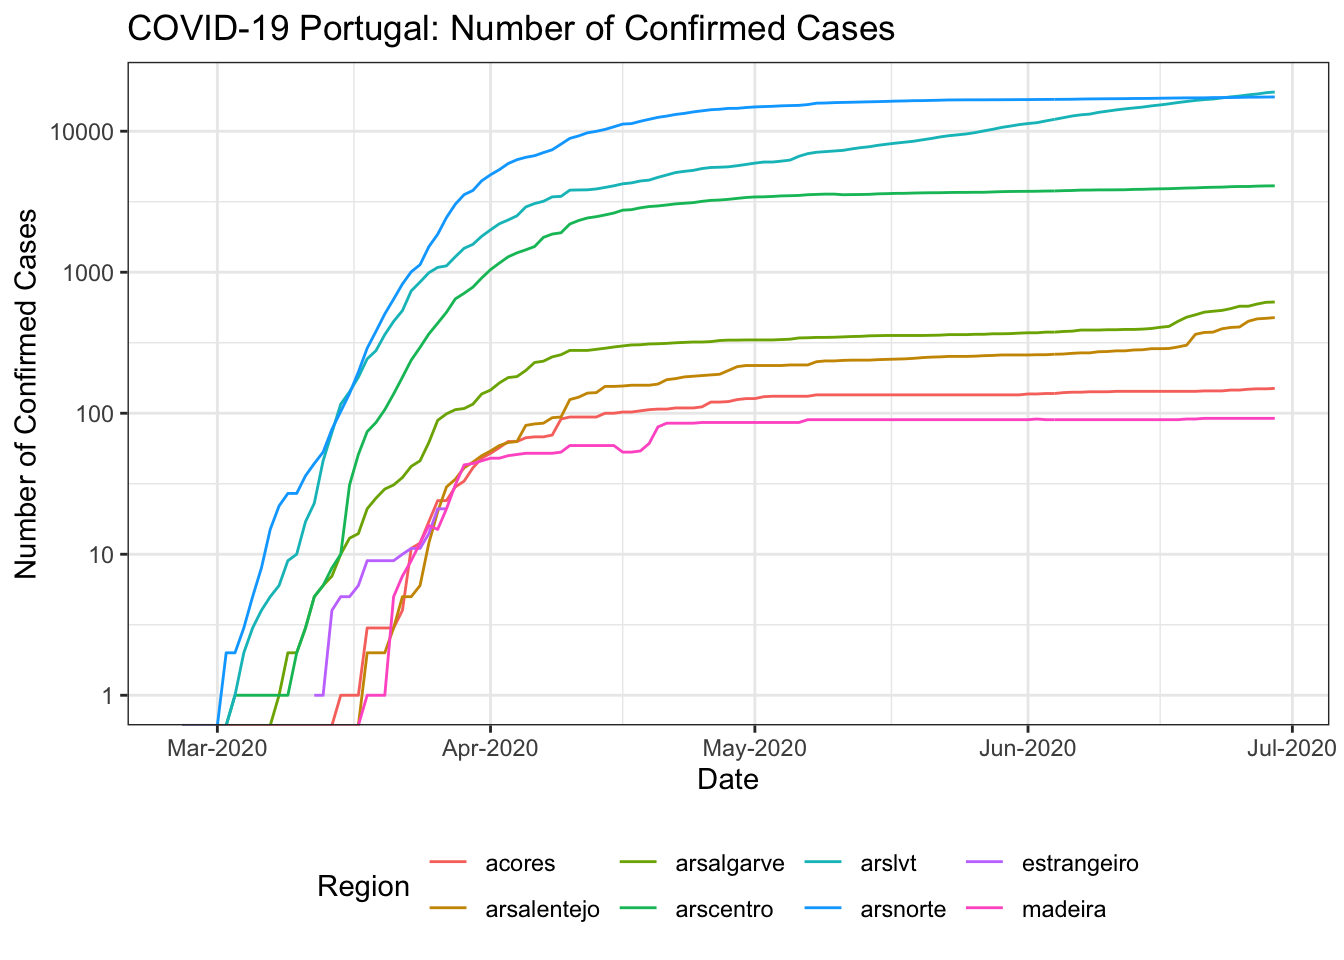
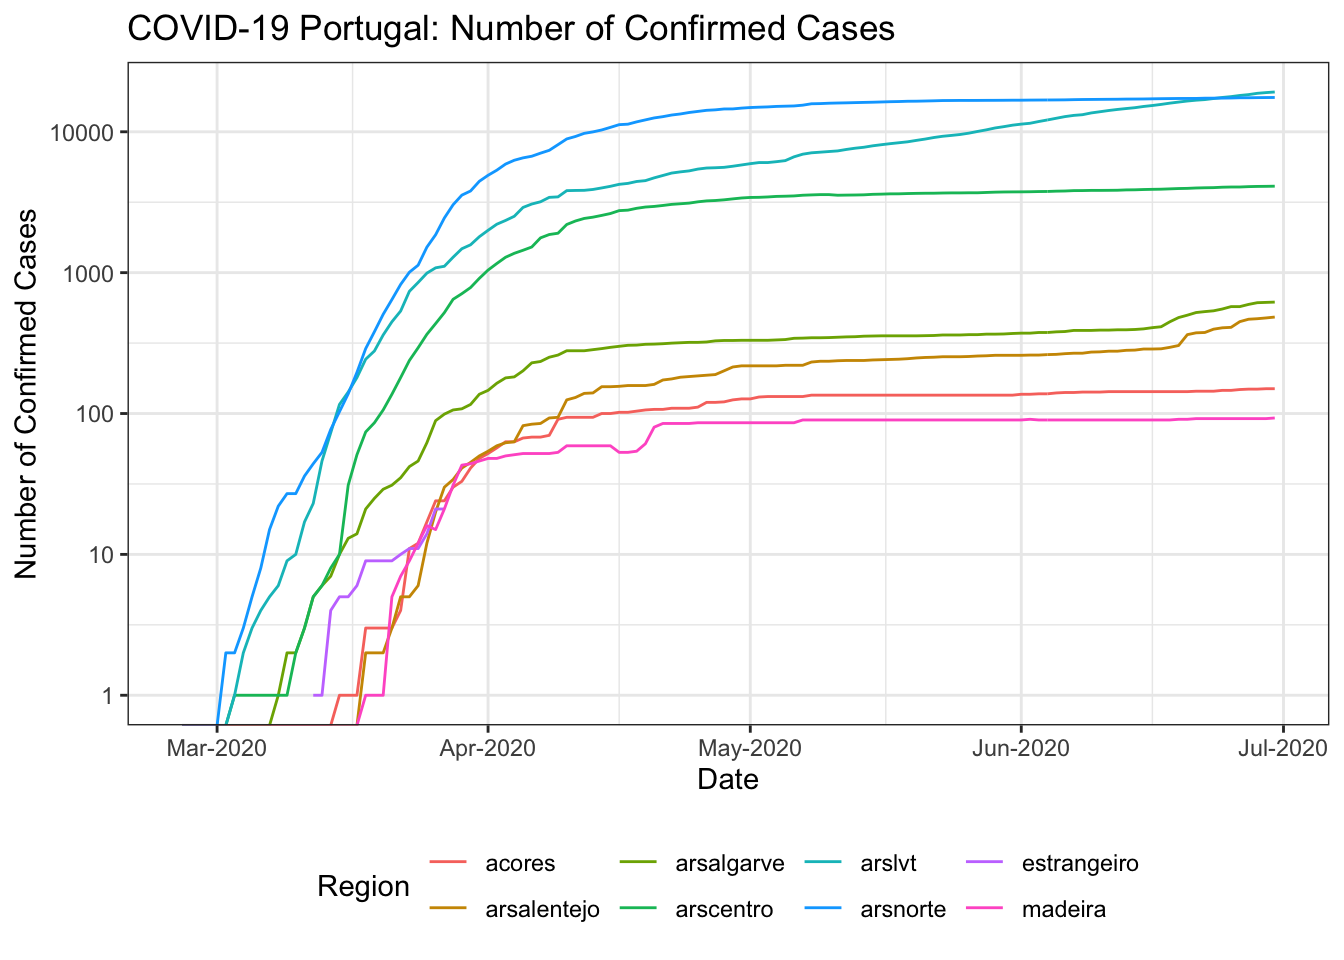
Data Update & Re-build README.Rmd

diff --git a/README.md b/README.md
@@ -1,13 +1,13 @@
 
 # Portuguese COVID-19 Data
 
-**Last updated:** Mon 29 Jun 2020 (15:25:16 UTC \[+0000\])
+**Last updated:** Tue 30 Jun 2020 (15:23:31 UTC \[+0000\])
 
 ## Data Meta Information
 
   - **Start date:** 2020-02-26
-  - **End Date:** 2020-06-29
-  - **Number of days:** 125
+  - **End Date:** 2020-06-30
+  - **Number of days:** 126
 
 ## Source
 
@@ -48,7 +48,7 @@ theme_set(theme_bw())
 # Read in data as a data.frame and data.table object.
 CV <- fread(here("data", "covid19pt_DSSG_Long.csv"))
 str(CV)
-## Classes 'data.table' and 'data.frame':   10500 obs. of  12 variables:
+## Classes 'data.table' and 'data.frame':   10584 obs. of  12 variables:
 ##  $ data       : chr  "2020-02-26" "2020-02-27" "2020-02-28" "2020-02-29" ...
 ##  $ origVars   : chr  "cadeias_transmissao" "cadeias_transmissao" "cadeias_transmissao" "cadeias_transmissao" ...
 ##  $ origType   : chr  "cadeias" "cadeias" "cadeias" "cadeias" ...
@@ -105,7 +105,7 @@ CV[origType=="confirmados" & ageGrp=="" & region!="Portugal"] %>%
     y = "Number of Confirmed Cases",
     colour = "Region")
 ## Warning: Transformation introduced infinite values in continuous y-axis
-## Warning: Removed 109 row(s) containing missing values (geom_path).
+## Warning: Removed 110 row(s) containing missing values (geom_path).
 ```
 
 <img src="README_figs/README-casesbyRegion-1.png" width="672" />
@@ -124,9 +124,9 @@ CV[dayChange<0][
 ##   4: 2020-03-24 confirmados_40_49_f   224        -2
 ##   5: 2020-03-19 confirmados_60_69_f    35       -14
 ##  ---                                               
-## 291: 2020-06-08          vigilancia 28791      -521
-## 292: 2020-06-13          vigilancia 30655      -124
-## 293: 2020-06-17          vigilancia 30289      -521
-## 294: 2020-06-19          vigilancia 29046     -1380
-## 295: 2020-06-23          vigilancia 30248      -708
+## 293: 2020-06-08          vigilancia 28791      -521
+## 294: 2020-06-13          vigilancia 30655      -124
+## 295: 2020-06-17          vigilancia 30289      -521
+## 296: 2020-06-19          vigilancia 29046     -1380
+## 297: 2020-06-23          vigilancia 30248      -708
 ```
